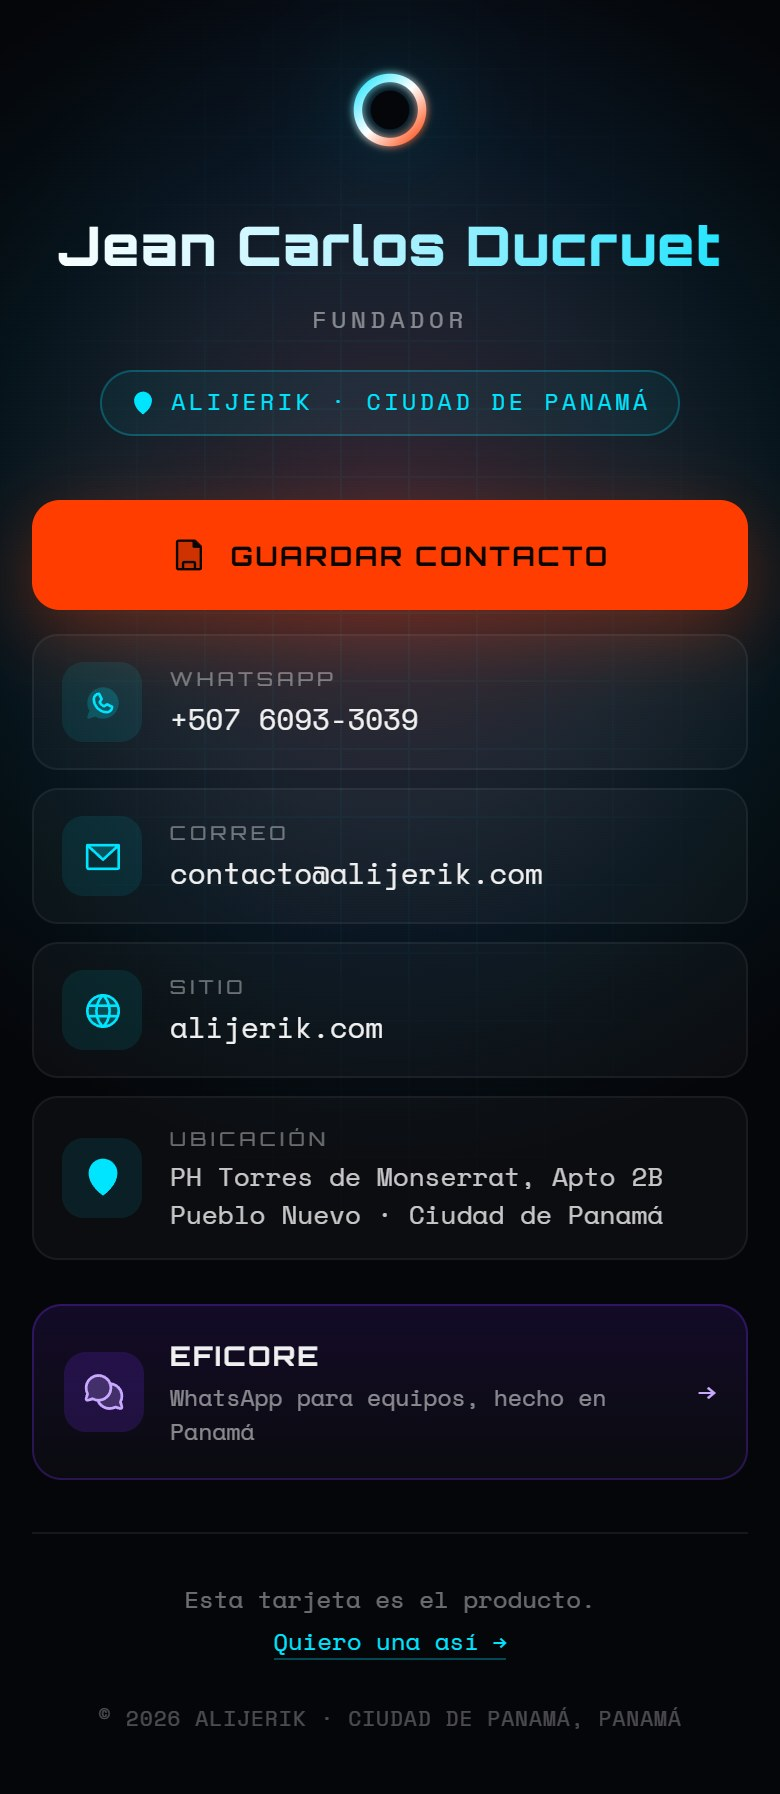
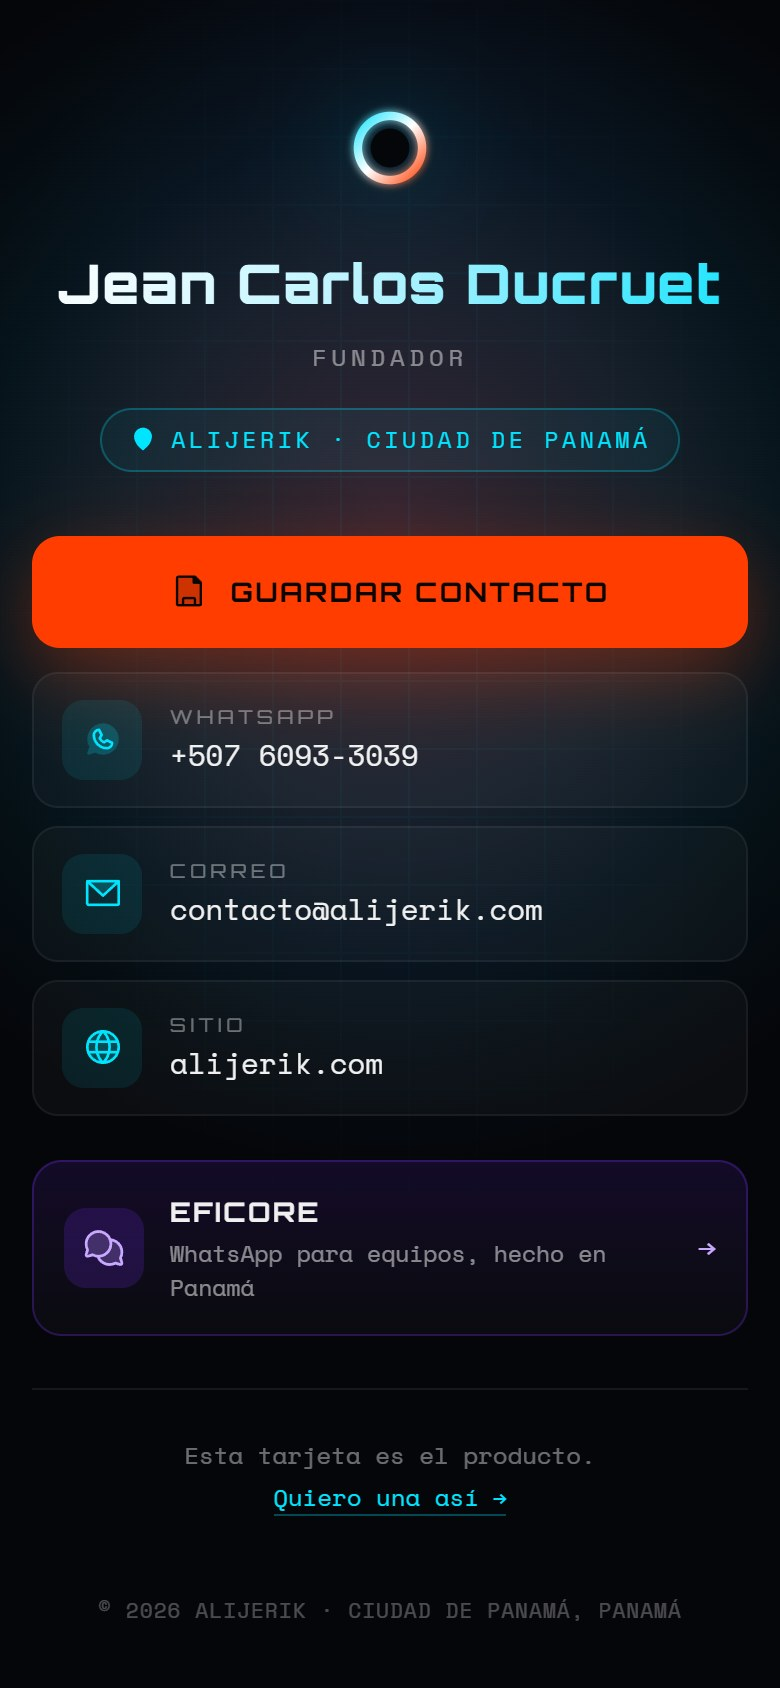
feat(portada): romper la metrica de los tres paneles y sacar la direccion de la tarjeta
EL HERO NO SE TOCA. La secuencia en canvas es lo mas distintivo del sitio y
docs/LENGUAJE-VISUAL.md la declara excepcion a proposito: cambiar una
animacion propia por una receta repetible seria un retroceso. Lo que se
reestructura es lo que va DEBAJO.

── Los 38 elementos invisibles ─────────────────────────────────────────

El comentario de main.js decia "el contenido es visible por defecto". No lo
era. `gsap.from` con ScrollTrigger tiene immediateRender activo: aplica el
estado inicial AL CARGAR y solo lo revierte cuando el trigger dispara. Las
tres secciones de la portada nacian en opacity:0 y cualquier cosa que
renderizara sin scrollear veia la portada vacia debajo del hero -- justo lo
que se vino a ganar con las paginas AEO.

Ahora `fromTo` con piso .3, el mismo que ya usan las paginas de contenido.
El reveal se siente igual; ningun elemento llega jamas a invisible.

Tambien el CSS: `[data-reveal]{opacity:0}` pasa a .3. El rescate `.no-anim`
solo se aplicaba con prefers-reduced-motion, asi que si el JS fallaba por
cualquier otro motivo el titular del hero se quedaba invisible para siempre.

Medido: la portada pasa de 38 elementos con texto en opacidad efectiva 0, a 0.

── La metrica uniforme ─────────────────────────────────────────────────

Los tres paneles tenian la MISMA silueta: rail, eyebrow, titulo, parrafo,
tarjeta. Repetir. Esa uniformidad es la firma de contenido generado, y
ningun cambio de iconos la arregla. Ahora:
[…]

diff --git a/index.html b/index.html
@@ -98,6 +98,18 @@
         </div>
       </section>
 
+      <!-- SILUETA A · franja a sangre completa.
+           Hija directa de .deck, fuera de .panel, para romper el compás.
+           Una captura real del producto es el activo anti-IA más fuerte que
+           existe: ninguna IA puede fabricar tu interfaz. -->
+      <section class="sangre" data-sec-reveal aria-labelledby="eficore">
+        <div class="sangre__in">
+          <img src="/eficore-shot-desktop.jpg" width="2000" height="1054" loading="lazy"
+               alt="Eficore en escritorio: la bandeja compartida, una conversación tomada por un agente y la ficha del cliente al costado." />
+          <p class="sangre__cap">Captura real de Eficore &middot; datos de demostración</p>
+        </div>
+      </section>
+
       <!-- 02 · TARJETAS DIGITALES -->
       <section class="panel" id="tarjetas" data-sec-reveal>
         <div class="panel__rail" aria-hidden="true">
@@ -107,30 +119,38 @@
         <div class="panel__body">
           <p class="panel__eyebrow">// SERVICIO · DISEÑO A MEDIDA</p>
           <h2 class="panel__title grad">TARJETAS DIGITALES</h2>
-          <p class="panel__lead">
-            Tu tarjeta de presentación como una página propia, con un código QR
-            listo para imprimir. Cambias de número o de cargo y no reimprimes
-            ni una tarjeta: el código se queda igual, lo de atrás se edita.
-          </p>
-
-          <a class="card" href="/tarjetas/">
-            <span class="card__glyph">
-              <svg class="ic" xmlns="http://www.w3.org/2000/svg" viewBox="0 0 256 256" fill="currentColor"><path d="M104,52v52H52V52Zm100,0H152v52h52Zm-100,100H52v52h52Z" opacity="0.2"/><path d="M104,44H52A8,8,0,0,0,44,52v52a8,8,0,0,0,8,8h52a8,8,0,0,0,8-8V52A8,8,0,0,0,104,44ZM96,96H60V60H96Zm108-52H152a8,8,0,0,0-8,8v52a8,8,0,0,0,8,8h52a8,8,0,0,0,8-8V52A8,8,0,0,0,204,44Zm-8,52H160V60h36ZM104,144H52a8,8,0,0,0-8,8v52a8,8,0,0,0,8,8h52a8,8,0,0,0,8-8V152A8,8,0,0,0,104,144Zm-8,52H60V160H96Zm70-52h-6a8,8,0,0,0-8,8v54a8,8,0,0,0,8,8h6a8,8,0,0,0,0-16h-6V160h6a8,8,0,0,0,0-16Zm38,0a8,8,0,0,0-8,8v46a8,8,0,0,0,16,0V152A8,8,0,0,0,204,144Z"/></svg>
-            </span>
-            <span class="card__text">
-              <span class="card__name">Tarjetas con QR</span>
-              <span class="card__sub">desde $180 + $60 al año</span>
-            </span>
-            <span class="card__go">
-              Ver el servicio
-              <svg class="ic" xmlns="http://www.w3.org/2000/svg" viewBox="0 0 256 256" fill="currentColor"><path d="M192,64V168L88,64Z" opacity="0.2"/><path d="M192,56H88a8,8,0,0,0-5.66,13.66L128.69,116,58.34,186.34a8,8,0,0,0,11.32,11.32L140,127.31l46.34,46.35A8,8,0,0,0,200,168V64A8,8,0,0,0,192,56Zm-8,92.69-38.34-38.34h0L107.31,72H184Z"/></svg>
-            </span>
-          </a>
-
-          <p class="panel__aside">
-            ¿Cómo se ve una?
-            <a href="/jc">Abrir mi tarjeta &rarr;</a>
-          </p>
+          <!-- SILUETA B · bloque asimétrico.
+               A propósito NO lleva .card como el panel de Eficore: si los dos
+               paneles cierran con la misma tarjeta, vuelve la métrica uniforme
+               que esta reestructuración vino a romper. -->
+          <div class="duo">
+            <div>
+              <p class="panel__lead" style="margin-top:0">
+                Tu tarjeta de presentación como una página propia, con un código QR
+                listo para imprimir. Cambias de número o de cargo y no reimprimes
+                ni una tarjeta: el código se queda igual, lo de atrás se edita.
+              </p>
+              <div class="duo__cta">
+                <a class="btn btn--primary" href="/tarjetas/">[ VER EL SERVICIO ]</a>
+              </div>
+              <!-- Enlace, no segundo botón: dos botones no caben a la par en
+                   esta columna y apilados quedan con anchos distintos. El
+                   "acción principal + aside" ya es el lenguaje de la portada. -->
+              <p class="panel__aside" style="margin-top:1.1rem">
+                ¿Cómo se ve una?
+                <a href="/jc">Abrir una tarjeta real &rarr;</a>
+              </p>
+            </div>
+            <div>
+              <div class="duo__viz">
+                <img class="duo__qr" src="/alijerik-qr.svg" width="124" height="124" loading="lazy"
+                     alt="Código QR de Alijerik con la marca del anillo al centro, listo para imprenta." />
+                <img class="duo__cel" src="/tarjeta-jc-movil.jpg" width="780" height="1688" loading="lazy"
+                     alt="Una tarjeta digital abierta en un teléfono: nombre, cargo y botón para guardar el contacto." />
+              </div>
+              <p class="duo__pie">El QR de la izquierda abre la tarjeta de la derecha.</p>
+            </div>
+          </div>
         </div>
       </section>
 
@@ -144,7 +164,10 @@
           <p class="panel__eyebrow">// CANALES</p>
           <h2 class="panel__title grad">ESTABLECER CONTACTO</h2>
 
-          <ul class="channels">
+          <!-- SILUETA C · banda ancha, sin tarjeta y sin rejilla angosta.
+               Los canales se reparten a lo ancho y el panel cierra con una
+               forma que no repite ninguna de las dos anteriores. -->
+          <ul class="channels channels--banda">
             <li>
               <a class="channel" href="https://wa.me/50760933039" target="_blank" rel="noopener">
                 <span class="channel__glyph">

diff --git a/src/styles/main.css b/src/styles/main.css
@@ -259,9 +259,15 @@ body.lite .hero__brand {
   50% { text-shadow: 0 0 24px rgba(255,255,255,0.7), 0 0 60px rgba(255,61,0,0.7), 0 0 100px rgba(0,229,255,0.25); }
 }
 
-/* ---------- Estado inicial de reveals (GSAP los anima) ---------- */
+/* ---------- Estado inicial de reveals (GSAP los anima) ----------
+   Piso de opacidad en .3, NUNCA 0 (ver docs/LENGUAJE-VISUAL.md).
+   Antes esto era opacity:0, y `.no-anim` — el rescate — solo se aplica
+   cuando hay prefers-reduced-motion. Si el JS fallaba por cualquier otra
+   razón (red, error, bloqueador), el titular del hero se quedaba
+   invisible para siempre. A .3 el peor caso es un texto tenue, no un
+   texto ausente. */
 [data-reveal] {
-  opacity: 0;
+  opacity: 0.3;
   transform: translateY(24px);
   will-change: transform, opacity;
 }
@@ -520,9 +526,77 @@ a.channel:hover {
   line-height: 1.6;
 }
 
+/* ============================================================
+   ROMPER LA MÉTRICA — docs/LENGUAJE-VISUAL.md §1
+   Los tres paneles tenían la MISMA silueta: rail, eyebrow, título,
+   párrafo, tarjeta. Repetir. Esa uniformidad es la firma de "esto lo
+   generó una IA", y ningún cambio de íconos la arregla.
+   Ahora cada uno tiene una forma propia:
+     01 Eficore  → franja a sangre completa con captura real
+     02 Tarjetas → bloque asimétrico con el QR y la tarjeta de verdad
+     03 Contacto → banda sin tarjeta, ancha, cierra distinto
+   ============================================================ */
+
+/* ── SILUETA A · franja a sangre completa ──
+   Hija directa de .deck, así que ocupa el ancho sola. Nada de 100vw:
+   eso suma la barra de scroll y desborda siempre. */
+.sangre {
+  position: relative;
+  padding: clamp(2.2rem, 6vh, 4rem) 0 clamp(2rem, 5vh, 3.4rem);
+  border-top: 1px solid var(--ghost);
+  border-bottom: 1px solid var(--ghost);
+  background: linear-gradient(180deg, rgba(0, 229, 255, 0.035), transparent 62%);
+}
+.sangre__in { width: min(96vw, 1280px); margin: 0 auto; padding: 0 clamp(1rem, 3vw, 1.75rem); }
+.sangre img {
+  display: block; width: 100%; height: auto; border-radius: 14px;
+  border: 1px solid rgba(0, 229, 255, 0.14);
+  box-shadow: 0 38px 96px rgba(0, 0, 0, 0.72);
+}
+.sangre__cap {
+  margin-top: 14px; font-family: "Space Mono", monospace;
+  font-size: 11px; letter-spacing: 0.05em; color: rgba(240, 240, 240, 0.42);
+}
+
+/* ── SILUETA B · bloque asimétrico ── */
+.duo {
+  margin-top: 2.1rem; display: grid;
+  grid-template-columns: 1.12fr 0.88fr;
+  gap: clamp(1.4rem, 4vw, 2.8rem); align-items: center;
+}
+.duo__viz { display: flex; align-items: center; justify-content: center; gap: clamp(.7rem, 2vw, 1.2rem); }
+.duo__qr {
+  width: clamp(92px, 12vw, 124px); height: auto; flex: none;
+  border-radius: 12px; background: #fff; padding: 7px;
+}
+.duo__cel {
+  width: clamp(104px, 14vw, 142px); height: auto; flex: none;
+  border-radius: 14px; border: 1px solid #1d222e;
+  box-shadow: 0 26px 62px rgba(0, 0, 0, 0.62);
+}
+.duo__pie {
+  margin-top: 1rem; font-family: "Space Mono", monospace; font-size: 11px;
+  letter-spacing: 0.04em; color: rgba(240, 240, 240, 0.4); text-align: center;
+}
+/* Propio, y no .hero__cta: ese va centrado porque el hero lo está. Aquí el
+   texto se alinea a la izquierda y los botones tienen que seguirlo. */
+.duo__cta { margin-top: 1.8rem; display: flex; gap: 0.8rem; flex-wrap: wrap; }
+
+/* ── SILUETA C · contacto en banda, sin tarjeta ── */
+.channels--banda {
+  max-width: none;
+  grid-template-columns: repeat(auto-fit, minmax(230px, 1fr));
+  align-items: stretch;
+}
+.channels--banda .channel { height: 100%; }
+
+@media (max-width: 860px) {
+  .duo { grid-template-columns: 1fr; gap: 1.6rem; }
+}
 @media (max-width: 640px) {
   .panel { padding: clamp(3rem, 9vh, 5rem) 0; gap: 0.9rem; }
   .card { flex-wrap: wrap; gap: 0.8rem; }
   .card__text { margin-right: 0; }
   .card__go { width: 100%; }
+  .sangre { padding: 2rem 0 1.8rem; }
 }

diff --git a/jc/index.html b/jc/index.html
@@ -197,12 +197,12 @@
             <span class="canal__t"><span class="canal__k">SITIO</span><span class="canal__v">alijerik.com</span></span>
           </a>
         </li>
-        <li>
-          <div class="canal canal--fijo">
-            <span class="canal__ic"><svg viewBox="0 0 256 256" fill="currentColor" aria-hidden="true"><path d="M128,24a80,80,0,0,0-80,80c0,72,80,128,80,128s80-56,80-128A80,80,0,0,0,128,24Zm0,112a32,32,0,1,1,32-32A32,32,0,0,1,128,136Z" opacity="0.2"/><path d="M128,64a40,40,0,1,0,40,40A40,40,0,0,0,128,64Zm0,64a24,24,0,1,1,24-24A24,24,0,0,1,128,128Zm0-112a88.1,88.1,0,0,0-88,88c0,31.4,14.51,64.68,42,96.25a254.19,254.19,0,0,0,41.45,38.3,8,8,0,0,0,9.18,0A254.19,254.19,0,0,0,174,200.25c27.45-31.57,42-64.85,42-96.25A88.1,88.1,0,0,0,128,16Z"/></svg></span>
-            <span class="canal__t"><span class="canal__k">UBICACIÓN</span><span class="canal__v">PH Torres de Monserrat, Apto 2B<br />Pueblo Nuevo &middot; Ciudad de Panamá</span></span>
-          </div>
-        </li>
+        <!-- Sin fila de UBICACIÓN a propósito. La dirección de este negocio es
+             un apartamento, y una tarjeta de presentación termina guardada en
+             el teléfono de gente que no se conoce. El chip de arriba ya dice
+             "Ciudad de Panamá", que es lo único que un prospecto necesita
+             saber. El domicilio registrado vive en las páginas legales, que es
+             donde corresponde. -->
       </ul>
 
       <a class="producto" href="/eficore/">
@@ -239,7 +239,6 @@
       "url": "https://alijerik.com/",
       "address": {
         "@type": "PostalAddress",
-        "streetAddress": "PH Torres de Monserrat, Apto 2B, Pueblo Nuevo",
         "addressLocality": "Ciudad de Panamá",
         "addressCountry": "PA"
       }

diff --git a/src/main.js b/src/main.js
@@ -95,18 +95,32 @@ function revealHero() {
 }
 
 // ── Reveals de secciones al scrollear ───────────────────────────────
-// Seguro: el contenido es visible por defecto (sin opacity:0 en CSS);
-// gsap.from solo lo anima desde un estado oculto si el JS corre.
+// PISO DE OPACIDAD EN .3 — NUNCA 0. Ver docs/LENGUAJE-VISUAL.md.
+//
+// Antes esto era `gsap.from(el, {opacity: 0})`. La intención era buena
+// ("el contenido es visible por defecto"), pero `gsap.from` con
+// ScrollTrigger tiene immediateRender activo: aplica el estado inicial
+// AL CARGAR y solo lo revierte cuando el trigger dispara. Resultado real:
+// las tres secciones de la portada — 38 elementos con texto — nacían en
+// opacity:0 y cualquier cosa que renderizara sin scrollear veía la
+// portada vacía debajo del hero. Justo lo que se vino a ganar con AEO.
+//
+// `fromTo` con piso .3 hace explícito el estado inicial: el reveal se
+// siente igual, pero ningún elemento llega jamás a invisible.
 function initSectionReveals() {
   if (reducedMotion) return;
   gsap.utils.toArray("[data-sec-reveal]").forEach((el) => {
-    gsap.from(el, {
-      opacity: 0,
-      y: 30,
-      duration: 0.9,
-      ease: "power3.out",
-      scrollTrigger: { trigger: el, start: "top 84%" },
-    });
+    gsap.fromTo(
+      el,
+      { opacity: 0.3, y: 30 },
+      {
+        opacity: 1,
+        y: 0,
+        duration: 0.9,
+        ease: "power3.out",
+        scrollTrigger: { trigger: el, start: "top 84%" },
+      }
+    );
   });
 }
 

diff --git a/tarjetas/index.html b/tarjetas/index.html
@@ -261,8 +261,8 @@
     <section class="franja">
       <div class="prueba">
         <div class="prueba__movil">
-          <img src="/tarjeta-jc-movil.jpg" width="390" height="897"
-               alt="Tarjeta de presentación digital de Jean Carlos Ducruet vista en un teléfono: marca de Alijerik, nombre, botón de guardar contacto y canales de WhatsApp, correo, sitio y ubicación." loading="lazy" />
+          <img src="/tarjeta-jc-movil.jpg" width="390" height="844"
+               alt="Tarjeta de presentación digital de Jean Carlos Ducruet vista en un teléfono: marca de Alijerik, nombre, cargo, botón de guardar contacto y canales de WhatsApp, correo y sitio." loading="lazy" />
         </div>
         <div>
           <p class="eyebrow">// ESTO NO ES UNA MAQUETA</p>
